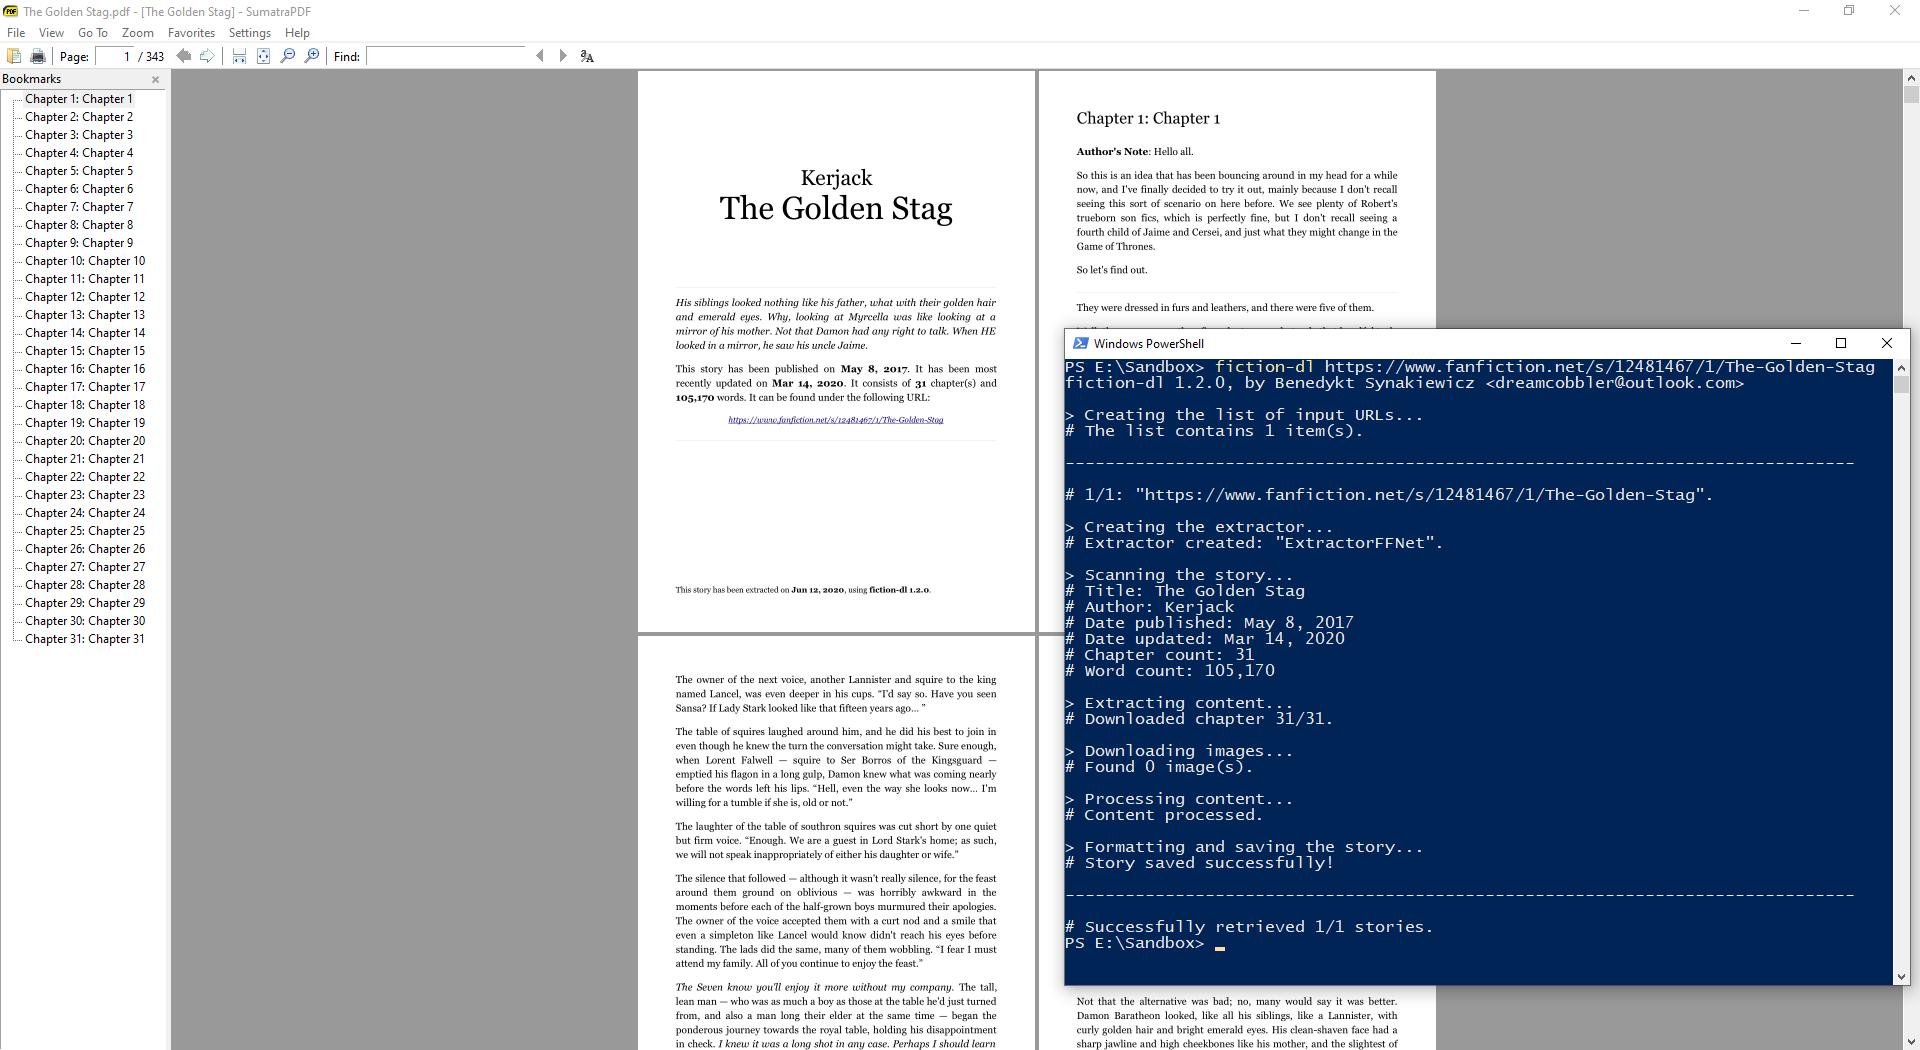
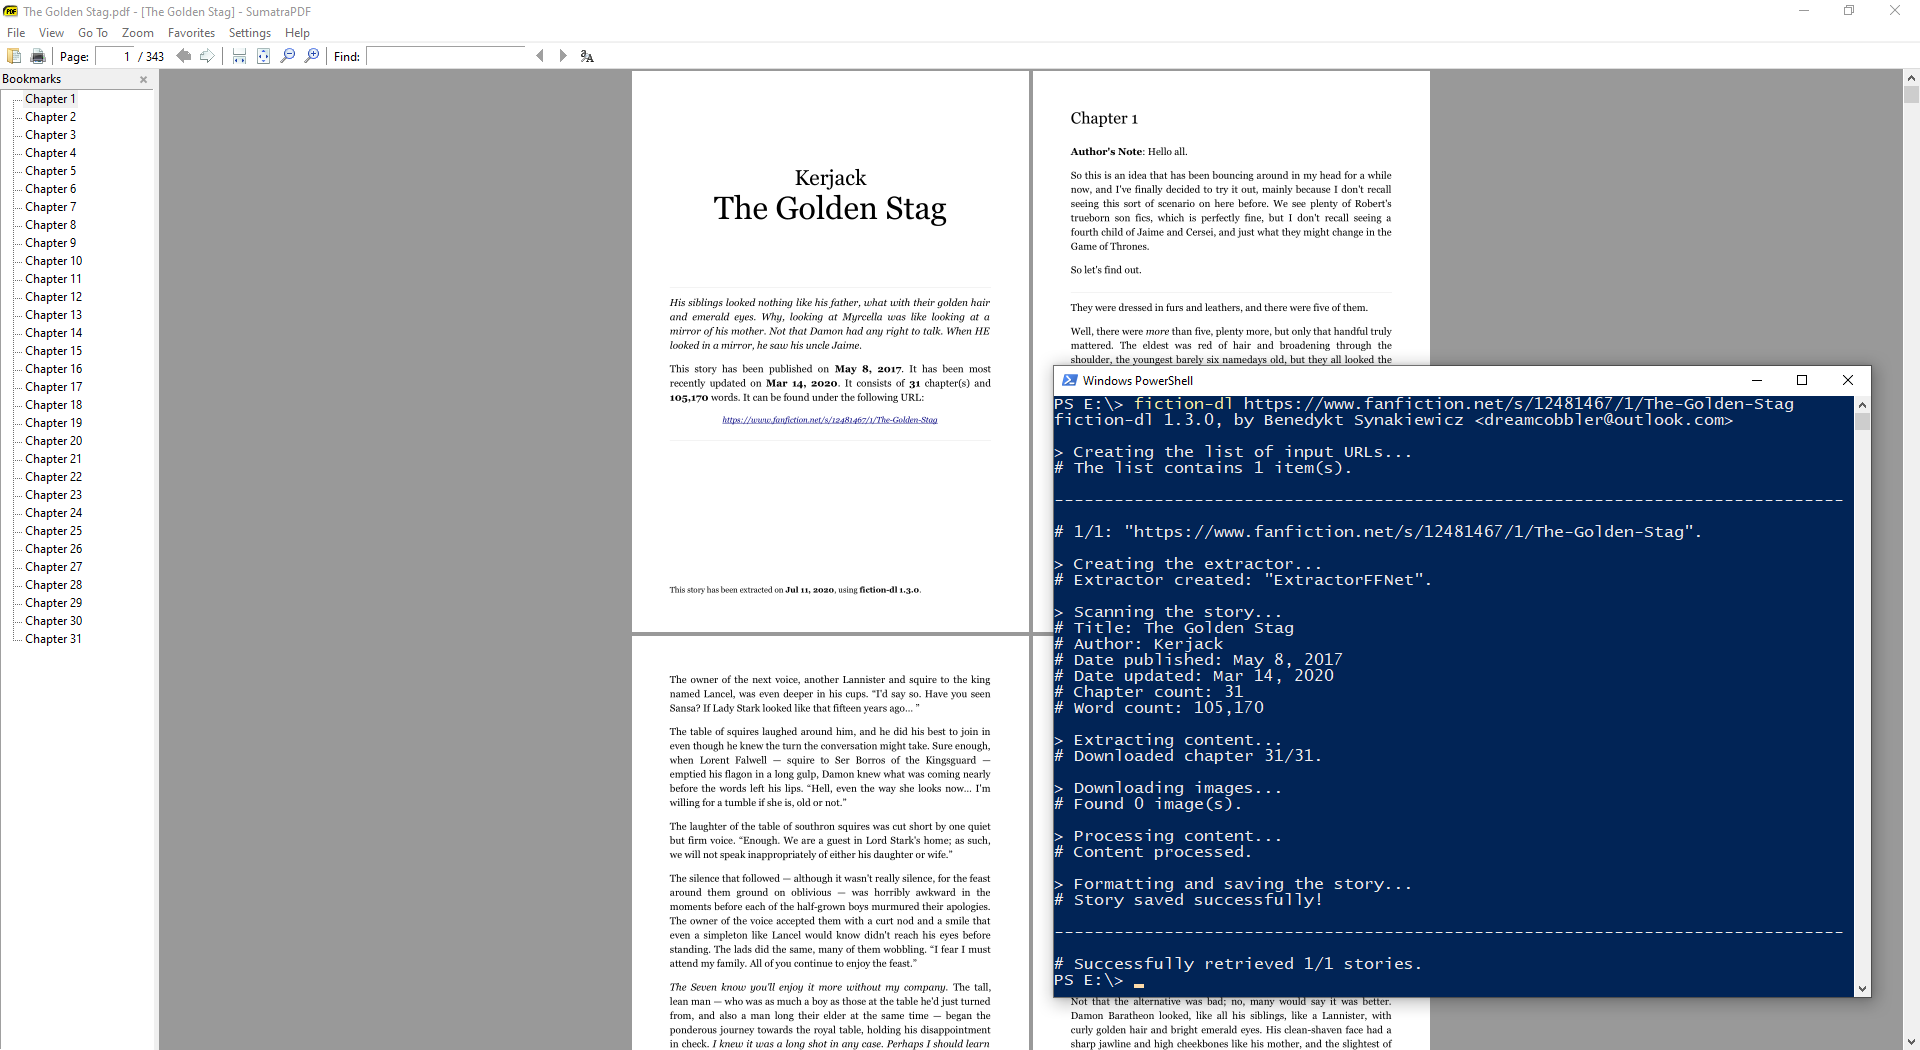
Updated the version number and the screenshot.

diff --git a/fiction_dl/Configuration.py b/fiction_dl/Configuration.py
@@ -40,7 +40,7 @@ import tempfile
 #
 
 ApplicationName = "fiction-dl"
-ApplicationVersion = "1.3.0a1"
+ApplicationVersion = "1.3.0"
 ApplicationShortDescription = (
     "A fiction downloader, capable of retrieving works of fiction from the net and saving them in a"
     "few common file formats."

diff --git a/README.md b/README.md
@@ -1,6 +1,4 @@
-# [fiction-dl](https://github.com/DreamCobbler/fiction-dl) (*1.3.0 alpha*)
-
-**(Current stable release is 1.2.0 - you can find it in the [Releases tab](https://github.com/DreamCobbler/fiction-dl/releases) on GitHub.)**
+# [fiction-dl](https://github.com/DreamCobbler/fiction-dl) (*1.3.0*)
 
 ![Screenshot](/Screenshot.png?raw=true)
 
